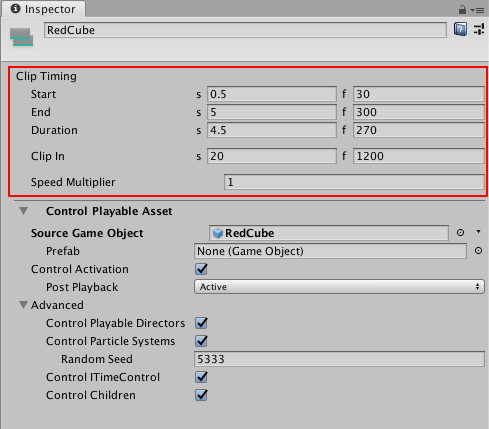
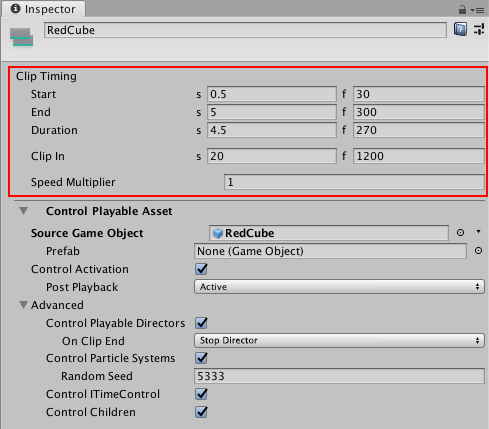
com.unity.timeline@1.8.0 ## [1.8.0] - 2022-10-31
### Added
- Added field on DirectorControlPlayable: pauseAction. This property controls whether the director is paused or stopped when the playable is paused.
- Added field on ControlPlayableAsset: directorOnClipEnd. This asset property is passed to DirectorControlPlayable.pauseAction when the DirectorControlPlayable is created.

### Fixed

- Fixed an issue where menu items related to track, marker and clip types in contextual menus would be in arbitrary order in some versions of Unity. Menu items related to types will now be sorted based on their full names, including the assembly name.

Changed region(s): [[0.3988, 0.7576, 1.0, 1.0], [0.092, 0.7879, 0.3681, 0.9697]]

diff --git a/Editor/Playables/ControlPlayableInspector.cs b/Editor/Playables/ControlPlayableInspector.cs
@@ -23,6 +23,7 @@ namespace UnityEditor.Timeline
             public static readonly GUIContent updateHierarchy = L10n.TextContent("Control Children", "Search child game objects for particle systems and playable directors");
             public static readonly GUIContent randomSeedContent = L10n.TextContent("Random Seed", "A random seed to provide the particle systems for consistent previews. This will only be used on particle systems where AutoRandomSeed is on.");
             public static readonly GUIContent postPlayableContent = L10n.TextContent("Post Playback", "The active state to the leave the game object when the timeline is finished. \n\nRevert will leave the game object in the state it was prior to the timeline being run");
+            public static readonly GUIContent directorActionOnClipEndContent = L10n.TextContent("On Clip End", "The action to apply to the PlayableDirector when the clip ends.");
         }
 
         SerializedProperty m_SourceObject;
@@ -34,6 +35,7 @@ namespace UnityEditor.Timeline
         SerializedProperty m_UseActivation;
         SerializedProperty m_PostPlayback;
         SerializedProperty m_RandomSeed;
+        SerializedProperty m_DirectorActionOnClipEnd;
         bool m_CycleReference;
 
 
@@ -65,6 +67,7 @@ namespace UnityEditor.Timeline
             m_SearchHierarchy = serializedObject.FindProperty("searchHierarchy");
             m_UseActivation = serializedObject.FindProperty("active");
             m_PostPlayback = serializedObject.FindProperty("postPlayback");
+            m_DirectorActionOnClipEnd = serializedObject.FindProperty("directorOnClipEnd");
             m_RandomSeed = serializedObject.FindProperty("particleRandomSeed");
             CheckForCyclicReference();
         }
@@ -138,6 +141,12 @@ namespace UnityEditor.Timeline
                     {
                         CheckForCyclicReference();
                     }
+                    EditorGUI.indentLevel++;
+                    using (new EditorGUI.DisabledScope(!m_UpdateDirector.boolValue))
+                    {
+                        EditorGUILayout.PropertyField(m_DirectorActionOnClipEnd, Styles.directorActionOnClipEndContent);
+                    }
+                    EditorGUI.indentLevel--;
                 }
 
                 EditorGUILayout.PropertyField(m_UpdateParticle, Styles.updateParticleSystemsContent);

diff --git a/Runtime/Playables/DirectorControlPlayable.cs b/Runtime/Playables/DirectorControlPlayable.cs
@@ -13,9 +13,29 @@ namespace UnityEngine.Timeline
     public class DirectorControlPlayable : PlayableBehaviour
     {
         /// <summary>
+        /// Represents the action taken when the DirectorControlPlayable is stopped.
+        /// </summary>
+        public enum PauseAction
+        {
+            /// <summary>
+            /// Stop the <see cref="PlayableDirector"/> on pause.
+            /// </summary>
+            StopDirector,
+
+            /// <summary>
+            /// Pause the <see cref="PlayableDirector"/> on pause.
+            /// </summary>
+            PauseDirector,
+        }
+        /// <summary>
         /// The PlayableDirector being controlled by this PlayableBehaviour
         /// </summary>
         public PlayableDirector director;
+
+        /// <summary>
+        /// Sets the action to perform when the playable is paused. <see cref="PauseAction"/>
+        /// </summary>
+        public PauseAction pauseAction = PauseAction.StopDirector;
 
         private bool m_SyncTime = false;
 
@@ -100,10 +120,15 @@ namespace UnityEngine.Timeline
         {
             if (director != null && director.playableAsset != null)
             {
-                if (info.effectivePlayState == PlayState.Playing) // graph was paused
+                if (info.effectivePlayState == PlayState.Playing ||
+                    info.effectivePlayState == PlayState.Paused && pauseAction == PauseAction.PauseDirector) // graph was paused
+                {
                     director.Pause();
+                }
                 else
+                {
                     director.Stop();
+                }
             }
         }
 

diff --git a/Runtime/Control/ControlPlayableAsset.cs b/Runtime/Control/ControlPlayableAsset.cs
@@ -63,7 +63,14 @@ namespace UnityEngine.Timeline
         /// <summary>
         /// Indicates the active state of the GameObject when Timeline is stopped.
         /// </summary>
-        [SerializeField] public ActivationControlPlayable.PostPlaybackState postPlayback = ActivationControlPlayable.PostPlaybackState.Revert;
+        [SerializeField]
+        public ActivationControlPlayable.PostPlaybackState postPlayback = ActivationControlPlayable.PostPlaybackState.Revert;
+
+        /// <summary>
+        /// Which action to apply to the <see cref="PlayableDirector"/> at the end of the control clip. <seealso cref="DirectorControlPlayable.PauseAction"/>
+        /// </summary>
+        [SerializeField]
+        public DirectorControlPlayable.PauseAction directorOnClipEnd = DirectorControlPlayable.PauseAction.StopDirector;
 
         PlayableAsset m_ControlDirectorAsset;
         double m_Duration = PlayableBinding.DefaultDuration;
@@ -227,7 +234,10 @@ namespace UnityEngine.Timeline
                 {
                     if (director.playableAsset != m_ControlDirectorAsset)
                     {
-                        outplayables.Add(DirectorControlPlayable.Create(graph, director));
+                        ScriptPlayable<DirectorControlPlayable> directorControlPlayable = DirectorControlPlayable.Create(graph, director);
+                        directorControlPlayable.GetBehaviour().pauseAction = directorOnClipEnd;
+                        outplayables.Add(directorControlPlayable);
+
                         controllingDirectors = true;
                     }
                     // if this self references, disable the director.

diff --git a/Documentation~/insp_clp_ctrl_plyb.md b/Documentation~/insp_clp_ctrl_plyb.md
@@ -40,6 +40,7 @@ Use the Advanced properties to select additional functionality based on whether 
 |**Property** |**Description** |
 |:---|:---|
 |**Control Playable Directors**|Enable this property if the Source Game Object is attached to a Playable Director and you want the Control clip to control the nested Timeline instance associated with this Playable Director.|
+|**On Clip End**| Use this property in conjunction with **Control Playable Directors** to set the state of the controlled Playable Director at the end of a clip. <br /><br />**Stop Director** stops the Playable Director and destroys the Playable Director graph at the end of a clip, releasing allocated resources.<br /><br />**Pause Director** pauses the Playable Director and reuses the Playable Director graph, preserving allocated resources. Select **Pause Director** to improve performance when a Control track has multiple clips using the same Sub-Timeline instance.
 |**Control Particle Systems**|Enable this property when the Control clip includes a Particle System. Set the value of the Random Seed property to create a unique, repeatable effect.|
 |**Control ITimeControl**|Enable this property to control ITimeControl scripts on the Source GameObject. To use this feature, the Source Game Object must have a script that implements the ITimeControl interface.|
 |**Control Children**|Enable this property if the Source Game Object has a child GameObject with either a Playable Director, Particle System, or ITimeControl Script, and you want the Control clip to control this child component.<br /><br />For example, if the Source Game Object is a GameObject that parents another GameObject with a Particle System, enable this property to make the Control clip control the Particle system on the child GameObject.|

diff --git a/CHANGELOG.md b/CHANGELOG.md
@@ -2,6 +2,16 @@
 
 All notable changes to this package will be documented in this file. The format is based on [Keep a Changelog](http://keepachangelog.com/en/1.0.0/)
 
+## [1.8.0] - 2022-10-31
+
+### Added
+- Added field on DirectorControlPlayable: pauseAction. This property controls whether the director is paused or stopped when the playable is paused.
+- Added field on ControlPlayableAsset: directorOnClipEnd. This asset property is passed to DirectorControlPlayable.pauseAction when the DirectorControlPlayable is created.
+
+### Fixed
+
+- Fixed an issue where menu items related to track, marker and clip types in contextual menus would be in arbitrary order in some versions of Unity. Menu items related to types will now be sorted based on their full names, including the assembly name.
+
 ## [1.7.2] - 2022-09-12
 
 ### Fixed
